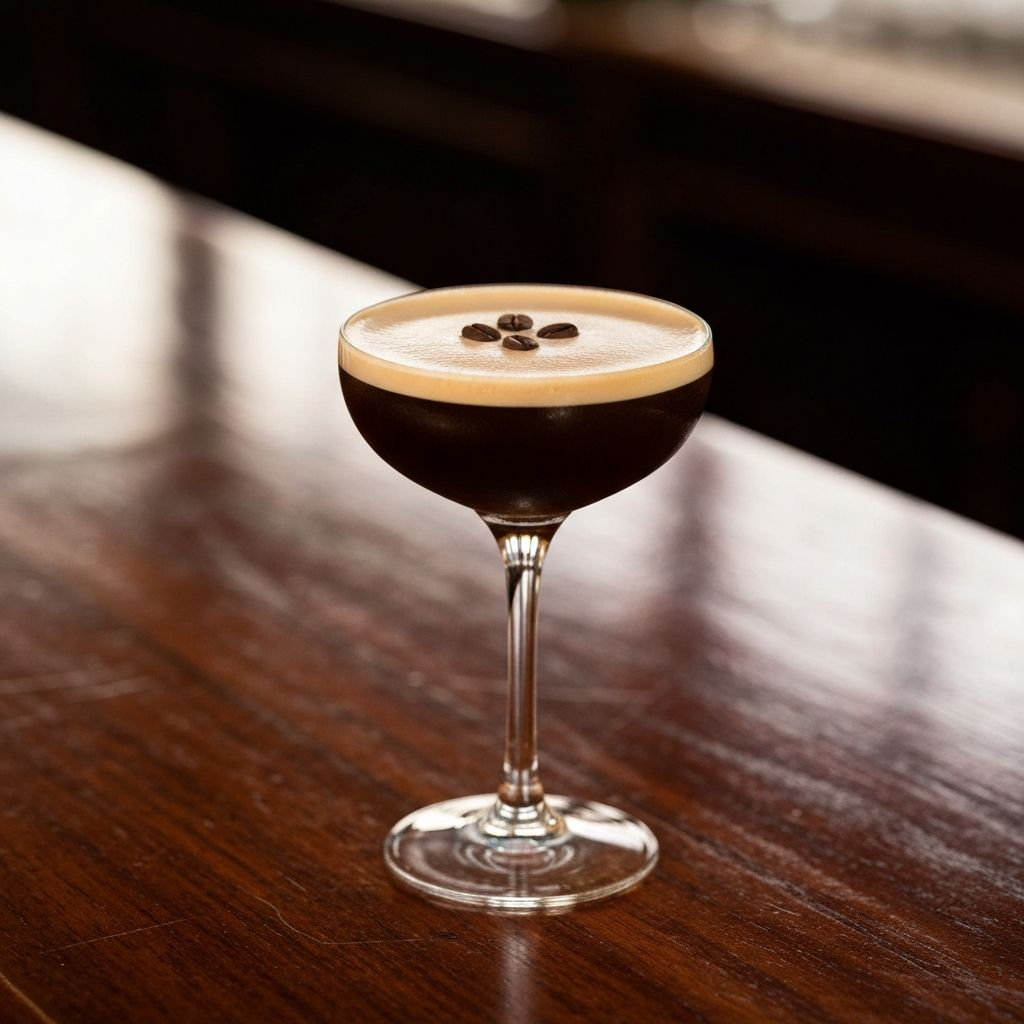
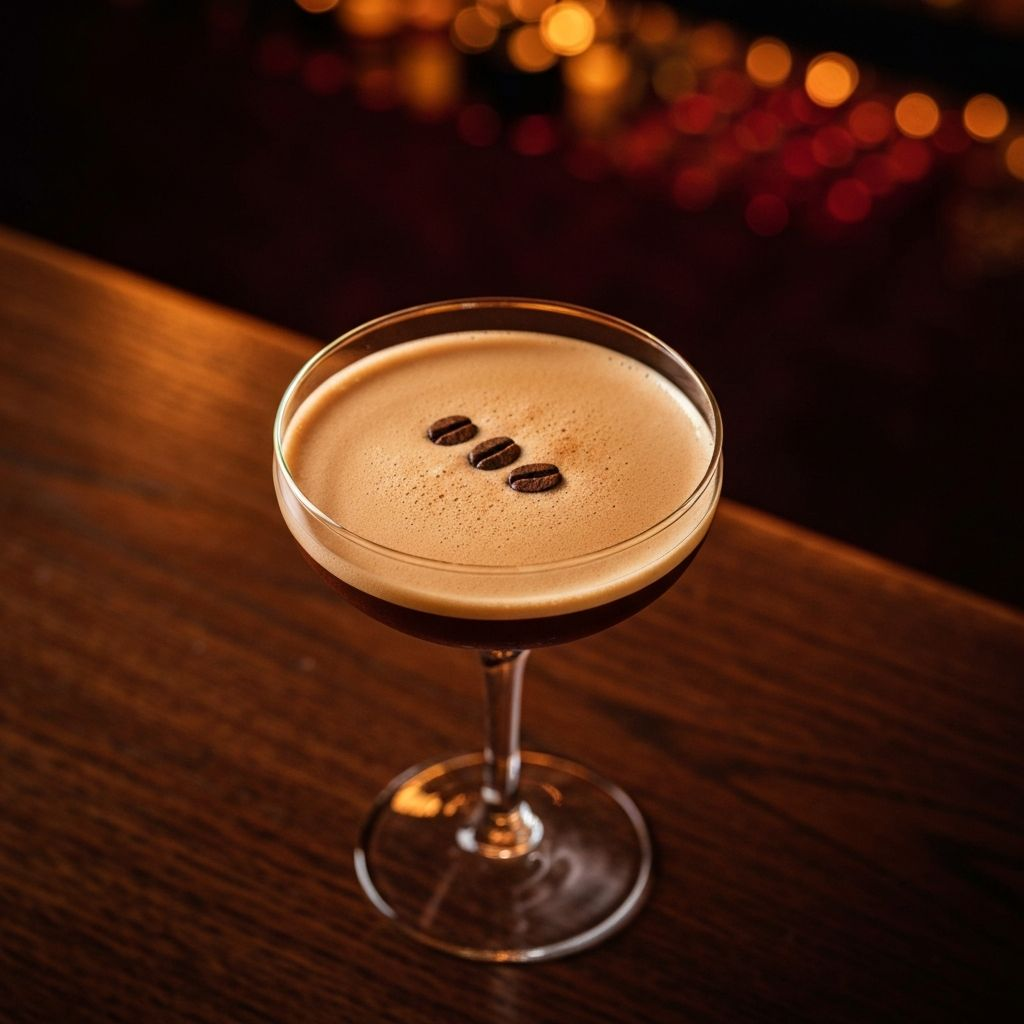
feat: add promotional images to live music and cocktail cards
Update component with Sam Mousley and espresso martini photos.

diff --git a/components/big-game-promo.tsx b/components/big-game-promo.tsx
@@ -1,5 +1,6 @@
 "use client"
 
+import Image from "next/image"
 import { Calendar, Clock, Music, UtensilsCrossed, Wine, Beer, Heart, Users } from "lucide-react"
 
 export function BigGamePromo() {
@@ -70,9 +71,17 @@ export function BigGamePromo() {
             {/* Feature Grid */}
             <div className="grid grid-cols-1 sm:grid-cols-2 lg:grid-cols-3 gap-3 md:gap-4 w-full max-w-3xl mb-6">
               {/* Live Music */}
-              <div className="bg-white/10 backdrop-blur-sm rounded-lg p-4 border border-[#c9a55a]/30">
-                <div className="flex items-center gap-2 mb-2">
-                  <Music className="h-5 w-5 text-[#c9a55a]" />
+              <div className="bg-white/10 backdrop-blur-sm rounded-lg p-4 border border-[#c9a55a]/30 flex flex-col items-center">
+                <div className="relative w-20 h-20 rounded-full overflow-hidden border-2 border-[#c9a55a]/50 mb-3">
+                  <Image
+                    src="/images/sam-mousley.png"
+                    alt="Sam Mousley playing guitar"
+                    fill
+                    className="object-cover object-top"
+                  />
+                </div>
+                <div className="flex items-center gap-2 mb-1">
+                  <Music className="h-4 w-4 text-[#c9a55a]" />
                   <span className="text-[#c9a55a] font-bold text-sm uppercase tracking-wide">Live Music</span>
                 </div>
                 <p className="text-[#f5e6d0] font-semibold text-lg">Sam Mousley</p>
@@ -90,9 +99,17 @@ export function BigGamePromo() {
               </div>
 
               {/* Specialty Cocktail */}
-              <div className="bg-white/10 backdrop-blur-sm rounded-lg p-4 border border-[#c9a55a]/30 sm:col-span-2 lg:col-span-1">
-                <div className="flex items-center gap-2 mb-2">
-                  <Heart className="h-5 w-5 text-[#c9a55a] fill-[#c9a55a]" />
+              <div className="bg-white/10 backdrop-blur-sm rounded-lg p-4 border border-[#c9a55a]/30 sm:col-span-2 lg:col-span-1 flex flex-col items-center">
+                <div className="relative w-20 h-20 rounded-full overflow-hidden border-2 border-[#c9a55a]/50 mb-3">
+                  <Image
+                    src="/images/espresso-martini.jpg"
+                    alt="Espresso martini cocktail"
+                    fill
+                    className="object-cover"
+                  />
+                </div>
+                <div className="flex items-center gap-2 mb-1">
+                  <Heart className="h-4 w-4 text-[#c9a55a] fill-[#c9a55a]" />
                   <span className="text-[#c9a55a] font-bold text-sm uppercase tracking-wide">Featured</span>
                 </div>
                 <p className="text-[#f5e6d0] font-semibold">Specialty Cocktail</p>
